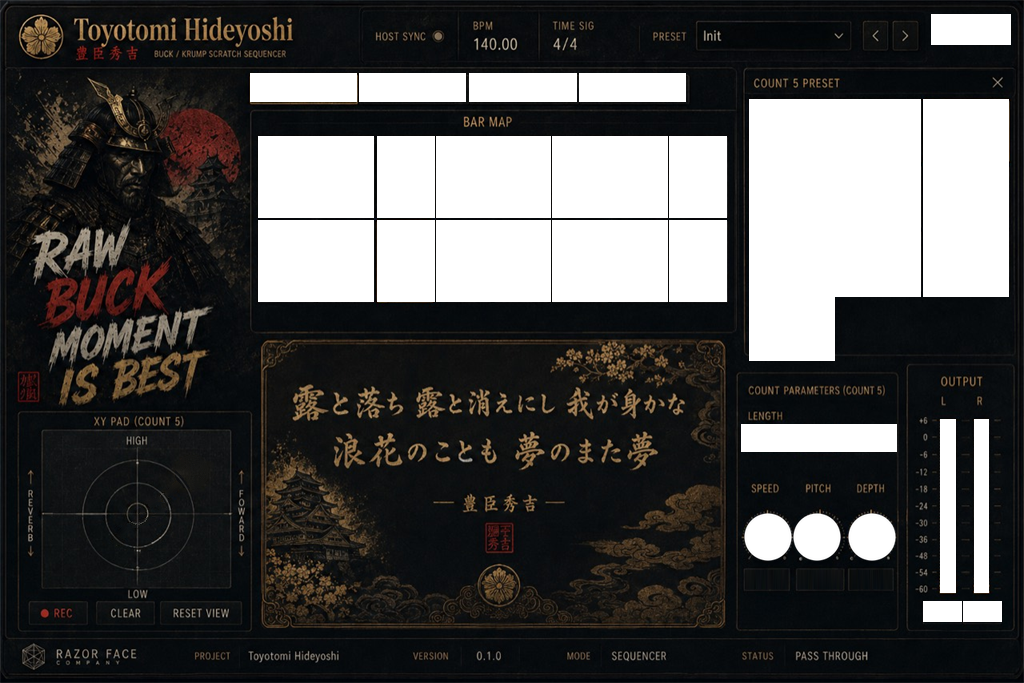
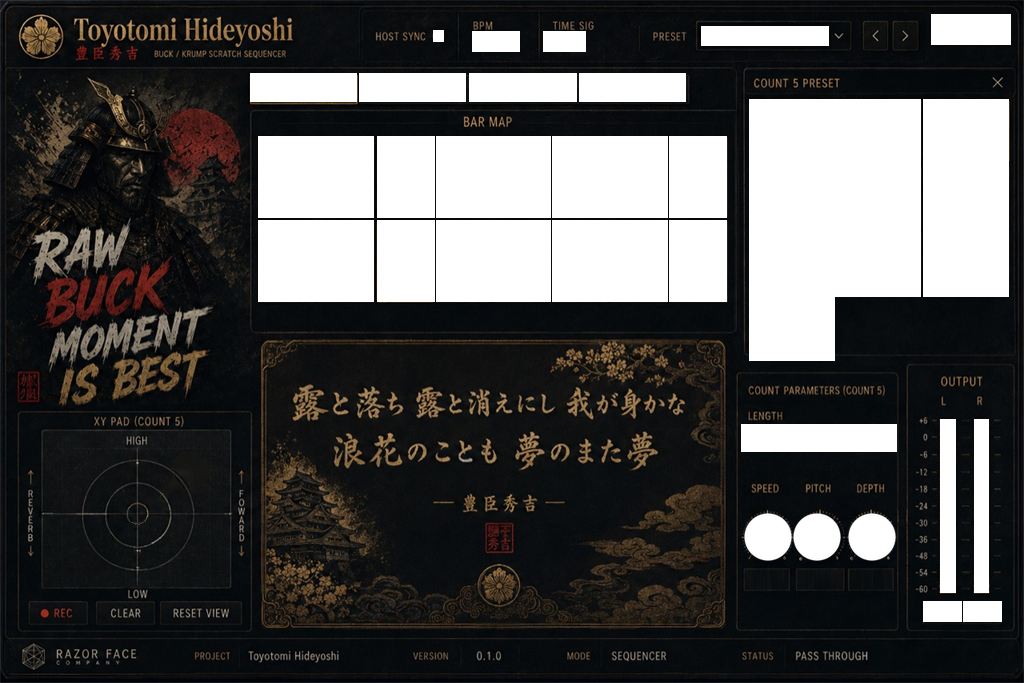
Fix top control static dynamic separation

Changed region(s): [[0.4062, 0.0307, 0.5938, 0.0922], [0.6875, 0.0307, 0.8125, 0.0922]]

diff --git a/Source/PluginEditorV2.cpp b/Source/PluginEditorV2.cpp
@@ -414,29 +414,25 @@ public:
             drawNative (g, assets.lengths[(size_t) index][hasSelection && index == (int) slot.length ? 1 : 0], kLengths[(size_t) index]);
 
         drawNative (g, ui.bypass ? assets.bypassOn : assets.bypassOff, { 931, 14, 80, 31 });
-        const auto drawTopValue = [&g] (juce::Rectangle<int> bounds, const juce::String& value, bool enabled)
+        const auto drawTopValue = [&g] (juce::Rectangle<int> bounds, const juce::String& value, bool enabled,
+                                        juce::Justification justification)
         {
-            auto textBounds = bounds.withTrimmedTop (13).reduced (3, 1);
             g.setColour (juce::Colour (0xff090b0c));
-            g.fillRect (textBounds);
+            g.fillRect (bounds);
             g.setColour (enabled ? juce::Colour (0xffe3d7c5) : juce::Colour (0xff78746b));
             g.setFont (14.0f);
-            g.drawText (value, textBounds, juce::Justification::centred);
+            g.drawText (value, bounds, justification);
         };
         const auto hostSync = processor.isHostSyncEnabled();
-        drawTopValue (GeneratedLayout::bpmBounds(), juce::String (processor.getEffectiveBpm(), 2), ! hostSync);
-        drawTopValue (GeneratedLayout::timeSigBounds(), juce::String (processor.getEffectiveTimeSignatureNumerator())
-                                                     + "/" + juce::String (processor.getEffectiveTimeSignatureDenominator()), ! hostSync);
-        auto presetTextBounds = GeneratedLayout::presetSelectorBounds().withTrimmedLeft (8).withTrimmedRight (24).withTrimmedTop (7).withTrimmedBottom (6);
-        g.setColour (juce::Colour (0xff090b0c));
-        g.fillRect (presetTextBounds);
-        g.setColour (juce::Colour (0xffe3d7c5));
-        g.setFont (13.0f);
-        g.drawText (ui.projectPresetId == 0 ? "Init" : "Init", presetTextBounds, juce::Justification::centredLeft);
-        const auto hostBounds = GeneratedLayout::hostSyncBounds();
-        const auto syncIndicator = juce::Point<float> ((float) (hostBounds.getRight() - 17), (float) hostBounds.getCentreY());
+        drawTopValue (GeneratedLayout::bpmValueBounds(), juce::String (processor.getEffectiveBpm(), 2), ! hostSync,
+                      juce::Justification::centred);
+        drawTopValue (GeneratedLayout::timeSigValueBounds(), juce::String (processor.getEffectiveTimeSignatureNumerator())
+                                                          + "/" + juce::String (processor.getEffectiveTimeSignatureDenominator()), ! hostSync,
+                      juce::Justification::centred);
+        drawTopValue (GeneratedLayout::presetValueBounds(), ui.projectPresetId == 0 ? "Init" : "Init", true,
+                      juce::Justification::centredLeft);
         g.setColour (hostSync ? juce::Colour (0xffb83229) : juce::Colour (0xff555049));
-        g.fillEllipse (syncIndicator.x - 4.0f, syncIndicator.y - 4.0f, 8.0f, 8.0f);
+        g.fillEllipse (GeneratedLayout::hostSyncLampBounds().toFloat());
         // The static faceplate owns the neutral XY panel and fixed labels.
 
         const std::array<float, 3> normalized {{ (slot.speed - .25f) / 3.75f, (slot.pitch + 12.0f) / 24.0f, slot.depth }};

diff --git a/Source/GeneratedLayout.h b/Source/GeneratedLayout.h
@@ -13,6 +13,13 @@ inline juce::Rectangle<int> timeSigBounds()         { return { 541, 14, 70, 31 }
 inline juce::Rectangle<int> presetSelectorBounds()  { return { 697, 14, 155, 31 }; }
 inline juce::Rectangle<int> presetPrevBounds()      { return { 862, 14, 29, 31 }; }
 inline juce::Rectangle<int> presetNextBounds()      { return { 894, 14, 29, 31 }; }
+// These are the mutable pixels measured from the 1024x683 SSOT.  They are
+// deliberately separate from their input/frame bounds: the faceplate owns
+// labels and frames; runtime owns only these values and the existing lamp.
+inline juce::Rectangle<int> hostSyncLampBounds()     { return { 433, 30, 11, 12 }; }
+inline juce::Rectangle<int> bpmValueBounds()         { return { 472, 31, 48, 21 }; }
+inline juce::Rectangle<int> timeSigValueBounds()     { return { 543, 31, 43, 21 }; }
+inline juce::Rectangle<int> presetValueBounds()      { return { 701, 26, 128, 20 }; }
 inline juce::Rectangle<int> speedKnobBounds()       { return { 744, 513, 48, 48 }; }
 inline juce::Rectangle<int> pitchKnobBounds()       { return { 793, 513, 48, 48 }; }
 inline juce::Rectangle<int> depthKnobBounds()       { return { 848, 513, 48, 48 }; }

diff --git a/tests/RuntimeSmokeTests.cpp b/tests/RuntimeSmokeTests.cpp
@@ -741,6 +741,16 @@ int main()
         GeneratedLayout::outputLReadoutBounds(), GeneratedLayout::outputRReadoutBounds()
     }})
         faceplateClean = faceplateClean && fullyTransparent (staticFaceplate, bounds);
+    for (const auto& bounds : std::array<juce::Rectangle<int>, 4> {{
+        GeneratedLayout::hostSyncLampBounds(), GeneratedLayout::bpmValueBounds(),
+        GeneratedLayout::timeSigValueBounds(), GeneratedLayout::presetValueBounds()
+    }})
+        faceplateClean = faceplateClean && fullyTransparent (staticFaceplate, bounds);
+    pass &= check (GeneratedLayout::hostSyncLampBounds().getCentre() == juce::Point<int> { 438, 36 }
+                && GeneratedLayout::bpmValueBounds().getCentre().getY() == 41
+                && GeneratedLayout::timeSigValueBounds().getCentre().getY() == 41
+                && GeneratedLayout::presetValueBounds().getCentre().getY() == 36,
+                   "v2-top-dynamic-geometry-is-ssot-derived");
     const auto nativeRing = resourceImage("knob_ring_60_png");
     for (const auto b : {GeneratedLayout::speedKnobBounds(),GeneratedLayout::pitchKnobBounds(),GeneratedLayout::depthKnobBounds()})
     {
